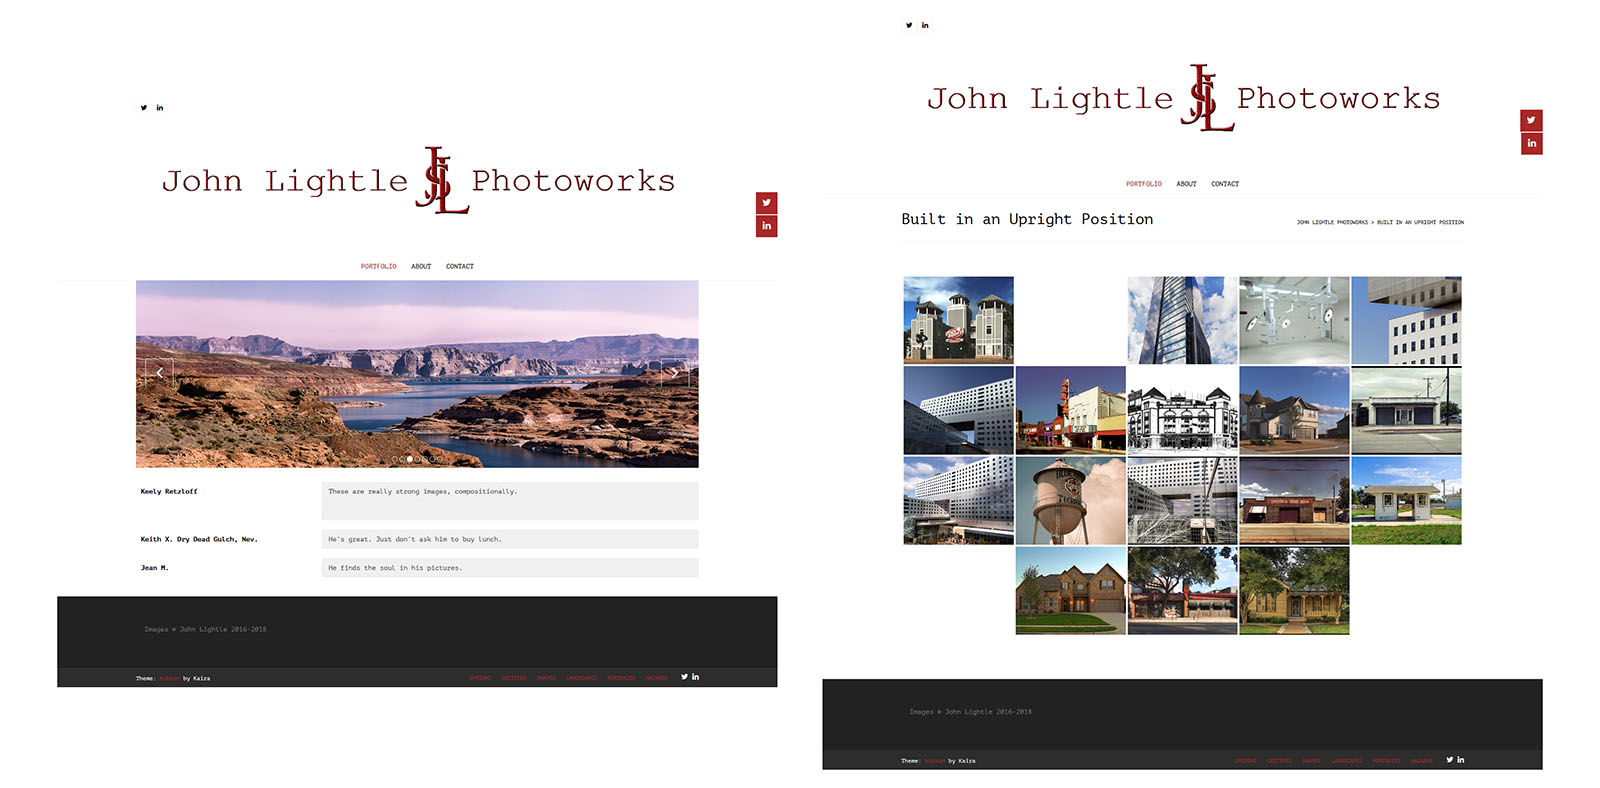
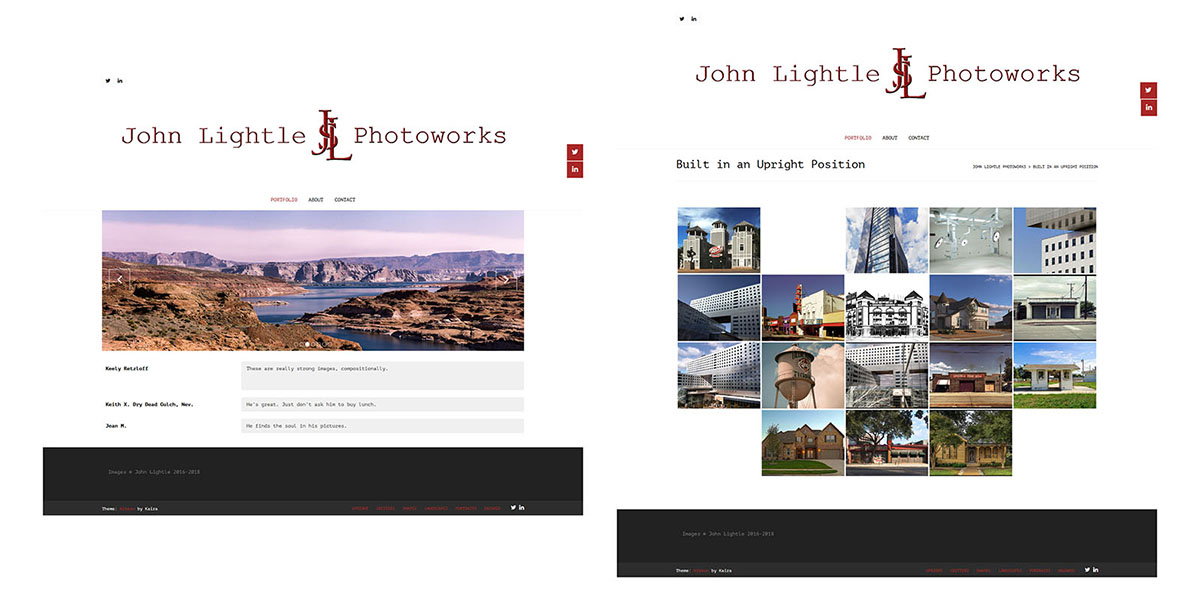
updated pictures

diff --git a/mainpage.css b/mainpage.css
@@ -99,6 +99,7 @@ h3 {
     margin: auto;
     padding: 5px;
     font-size: 1.4em;
+    letter-spacing: 1px;
     color: var(--beige);
 }
 
@@ -271,7 +272,7 @@ nav.sticky button.navbar-toggler span{
 
 .cover::before {
     content: "";
-    background:url(images/headercover.jpg) #f2ece9f2 center left no-repeat fixed;
+    background:url(images/headercover.jpg) #f2ece9f2 center right no-repeat fixed;
     background-blend-mode:screen;
     background-size: cover;
     opacity: 0;
@@ -455,6 +456,7 @@ ul.flex-table {
     display: grid;
     grid-template-columns: repeat(auto-fit, minmax(350px, 1fr));
     grid-template-rows:  repeat(auto-fit, 1fr);
+    padding-bottom: 50px;
 }
 
 .grid-item{
@@ -472,7 +474,7 @@ ul.flex-table {
 }
 
 .grid-item .img-container {
-    width: 300px;
+    width: 92%;
     margin-top: 5%;
     height: 300px;
     overflow: hidden;
@@ -551,7 +553,7 @@ form input {
 
 form .btn {
     margin: 16px auto;
-    width: 30%;
+    width: 40%;
     display: block;
 }
 
@@ -593,10 +595,10 @@ form textarea {
 }
 
 .footer {
-    padding: 30px 0 25px 0;
+    padding: 30px 0;
     color: var(--beige);
     background-color: var(--navy);
-    height: 130px;
+    height: 145px;
 }
 
 footer span.watermark {
@@ -605,14 +607,17 @@ footer span.watermark {
     font-style: normal;
     font-size: 1.1em;
     padding: 0 8px;
-
+    display: inline-block;
+    position: relative;
+    bottom:2px;
+    left: 0;
 }
 
 .socialmedia {
     text-align: center;
     display: flex;
     justify-content: center;
-    margin: 0 auto 20px;
+    margin: 0 auto 15px;
     padding: 0;
 }
 
@@ -621,17 +626,9 @@ footer span.watermark {
     padding: 10px;
 }
 
-.socialmedia li a:focus, .socialmedia li a:visited {
-    color:var(--beige);
-}
-
-.socialmedia li a:hover {
-    color: var(--red);
-}
-
 .socialmedia li {
     list-style-type: none;
-    margin: 0 20px;
+    margin: 0 10px;
 }
 
 
@@ -654,11 +651,17 @@ footer span.watermark {
     #home {
         min-height: 600px;
     }
+    .cover::before {
+        background-position: center;
+    }
     .container-cover {
         position: absolute;
         top: 0;
         left: 0;
         z-index: 6;
+    }
+    .container {
+        min-width: 100%;
     }
     .cover {
         animation:none;
@@ -678,7 +681,7 @@ footer span.watermark {
     }
 
     button.discover {
-        width: 100%;
+        width: 91%;
         font-size: 1.2em;
     }
 
@@ -715,14 +718,30 @@ footer span.watermark {
         padding: 1.5em 0;
     }
 
-    .grid-item .img-container {
-        width: 300px;
-    }
-
     .grid-item {
-        margin: 1%;
+        margin: 2% 3%;
     }
 
+    .navbar-toggler {
+        padding-right: 0;
+    }
+
+    .formcontainer form {
+        margin: 0 1%;
+    }
+
+    form .btn {
+        width: 100%;
+    }
+
+    .socialmedia li img {
+        width: 32px;
+    }
+    #aboutmetitle::after, #portfoliotitle::after, #contactitle::after {
+    width:40%;
+    left:30%;
+    margin-top: 75px;
+    }
 }
 
 @media screen and (max-width: 900px) {
@@ -857,9 +876,6 @@ footer span.watermark {
     }
     .grid-item {
         margin: 10px;
-    }
-    .grid-item .img-container {
-        width: 400px;
     }
     form {
         margin: auto;

diff --git a/index.html b/index.html
@@ -184,7 +184,7 @@
               <article class="grid-item">
                 <a href="projects/healthyheart.html" title="Heal thy Heart">
                   <div class="img-container">
-                  <img class="portfolio" src="images/healthyheart/healthyheartvsg.png" />
+                  <img class="portfolio" src="images/healthyheart/healthyheart_papermockup.png" />
                   </div>
                     <h3 class="projecttitle">Heal thy Heart</h3>
                 </a>
@@ -197,7 +197,7 @@
                   <div class="img-container">
                   <img
                     class="portfolio"
-                    src="images/jsl/jslwebsitescreenshot.jpg"
+                    src="images/jsl/jslindex.png"
                   />
                   </div>
                     <h3 class="projecttitle">John Lightle Photoworks</h3>
@@ -209,7 +209,7 @@
                   href="projects/illustrations.html"
                   title="Illustrations and Logos">
                   <div class="img-container">
-                  <img class="portfolio" src="images/illustrations/faucet.jpeg" />
+                  <img class="portfolio" src="images/illustrations/AlterEgo2.png" />
                   </div>
                     <h3 class="projecttitle">Illustrations, Logos, Photography</h3>
                 </a>
@@ -222,7 +222,7 @@
                   <div class="img-container">
                   <img
                     class="portfolio"
-                    src="images/houseofthesouth/houseofthesouthscreenshot.png"
+                    src="images/houseofthesouth/houseofthesouthmockup.png"
                   />
                 </div>
                     <h3 class="projecttitle">House of the South</h3>
@@ -335,17 +335,12 @@
 
     <script>
       $(document).ready(function () {
-        ScrollOut({
-          
-        });
+        ScrollOut({});
 
         $("a").smoothScroll({
           speed: 1000,
         });
-        
-        
       }); // end ready
-
 
       window.addEventListener("load", () => {
       document.querySelector("body").classList.add("loaded"); 
@@ -368,14 +363,13 @@
           });
         })
         .scroll();
-    </script>
 
-    <script>
-      window.jQuery ||
+        window.jQuery ||
         document.write(
           '<script src="../../assets/js/vendor/jquery.min.js"><\/script>'
         );
     </script>
+
     <script src="https://unpkg.com/scroll-out/dist/scroll-out.min.js"></script>
     <script src="plugins/jquery-smooth-scroll/jquery.smooth-scroll.min.js"></script>
 

diff --git a/projects/illustrations.html b/projects/illustrations.html
@@ -52,7 +52,8 @@
 
 <section id="about" class="container">
   <div class="jumbotron"> 
-      <h1 class="intro" id="aboutmetitle">Misicellaneous Illustrations, Logos, Videos, Etc.</h1>     
+      <h1 class="intro" id="aboutmetitle">Miscellaneous Photography, Illustrations, Videos, etc.</h1>   
+      <p>Random creative projects that I've worked on throughout the years.</p>  
       </div>
       <div class="about">
         <img src="../images/illustrations/forestbackground.jpg" class="pic" title="Forest Background"/>
@@ -64,12 +65,14 @@
         <img src="../images/illustrations/Rebirth.jpg" class="pic" title="Rebirth"/>
         <div class="flex-container">
           <div class="flex-item">
-        <h4>An Ode to Long Distance</h4>
-        <a href="https://youtu.be/SezvQIta7ig"><img class="column" src="../images/illustrations/odetolongdistance.jpg" class="pic" title="Ode to Long Distance"/></a>
-        </div> <div class="flex-item">
-        <h4>An Interview with Sabrina Black</h4>
-        <a href="https://youtu.be/9omc_uv3Lqk"><img class="column" src="../images/illustrations/sabrinablack.jpg" class="pic" title="Logo Version 2"/></a>
-      </div>
+        <h4>Videos</h4>
+        <iframe width="520" height="350"
+        src="https://www.youtube.com/embed/SezvQIta7ig">
+        </iframe> 
+        <iframe width="520" height="350"
+        src="https://www.youtube.com/embed/9omc_uv3Lqk">
+        </iframe> 
+  </div>
       </div>
          
       </div>
